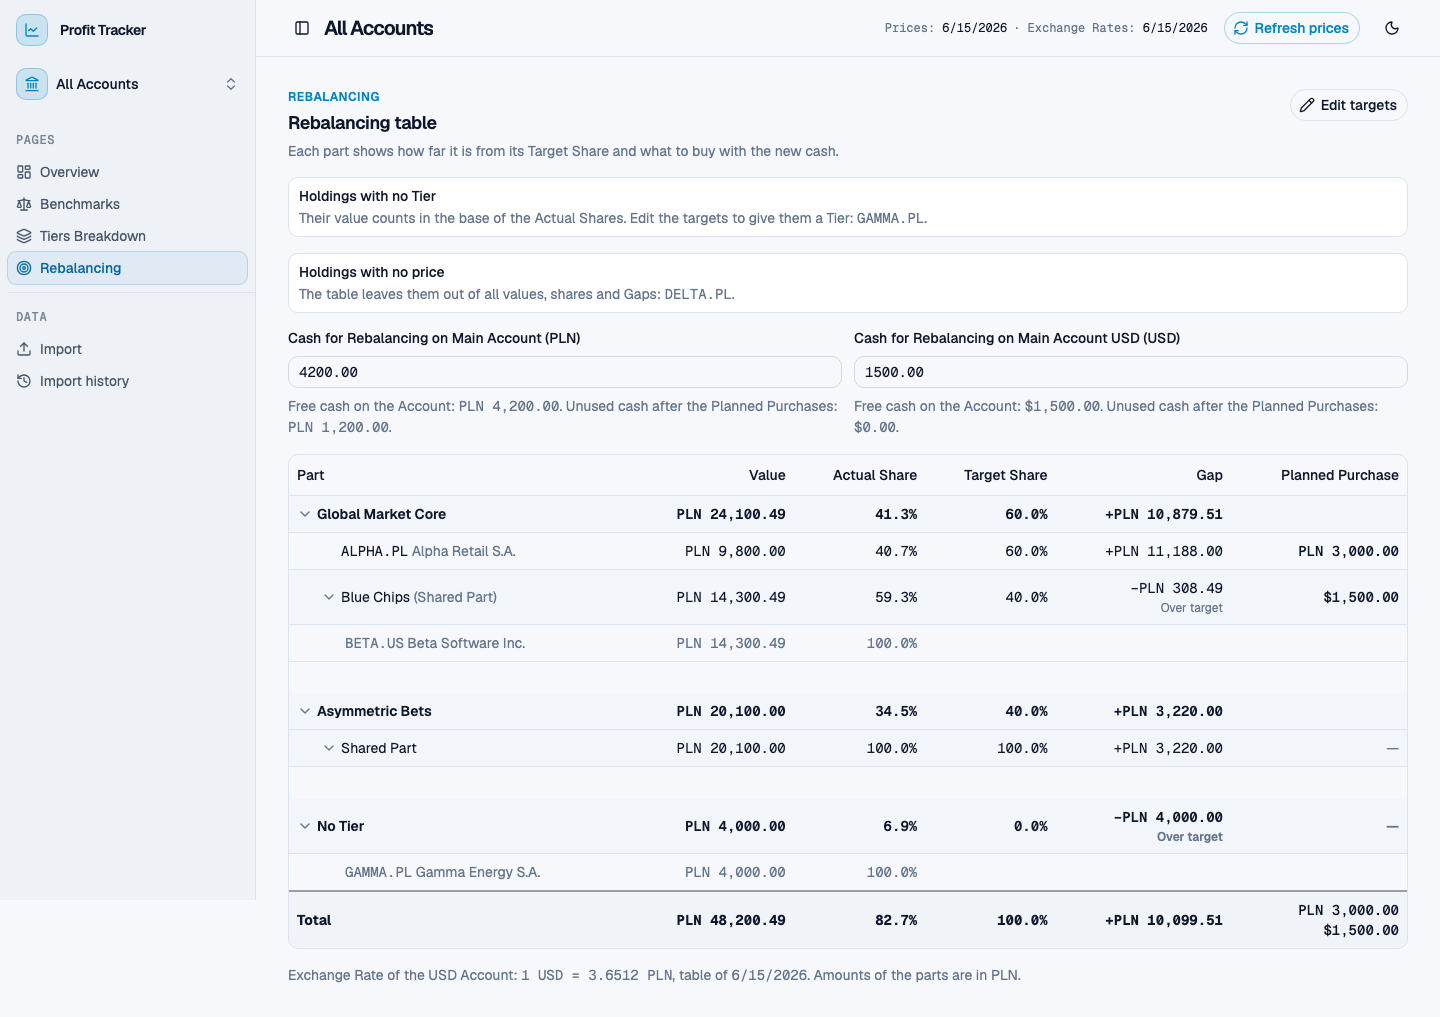
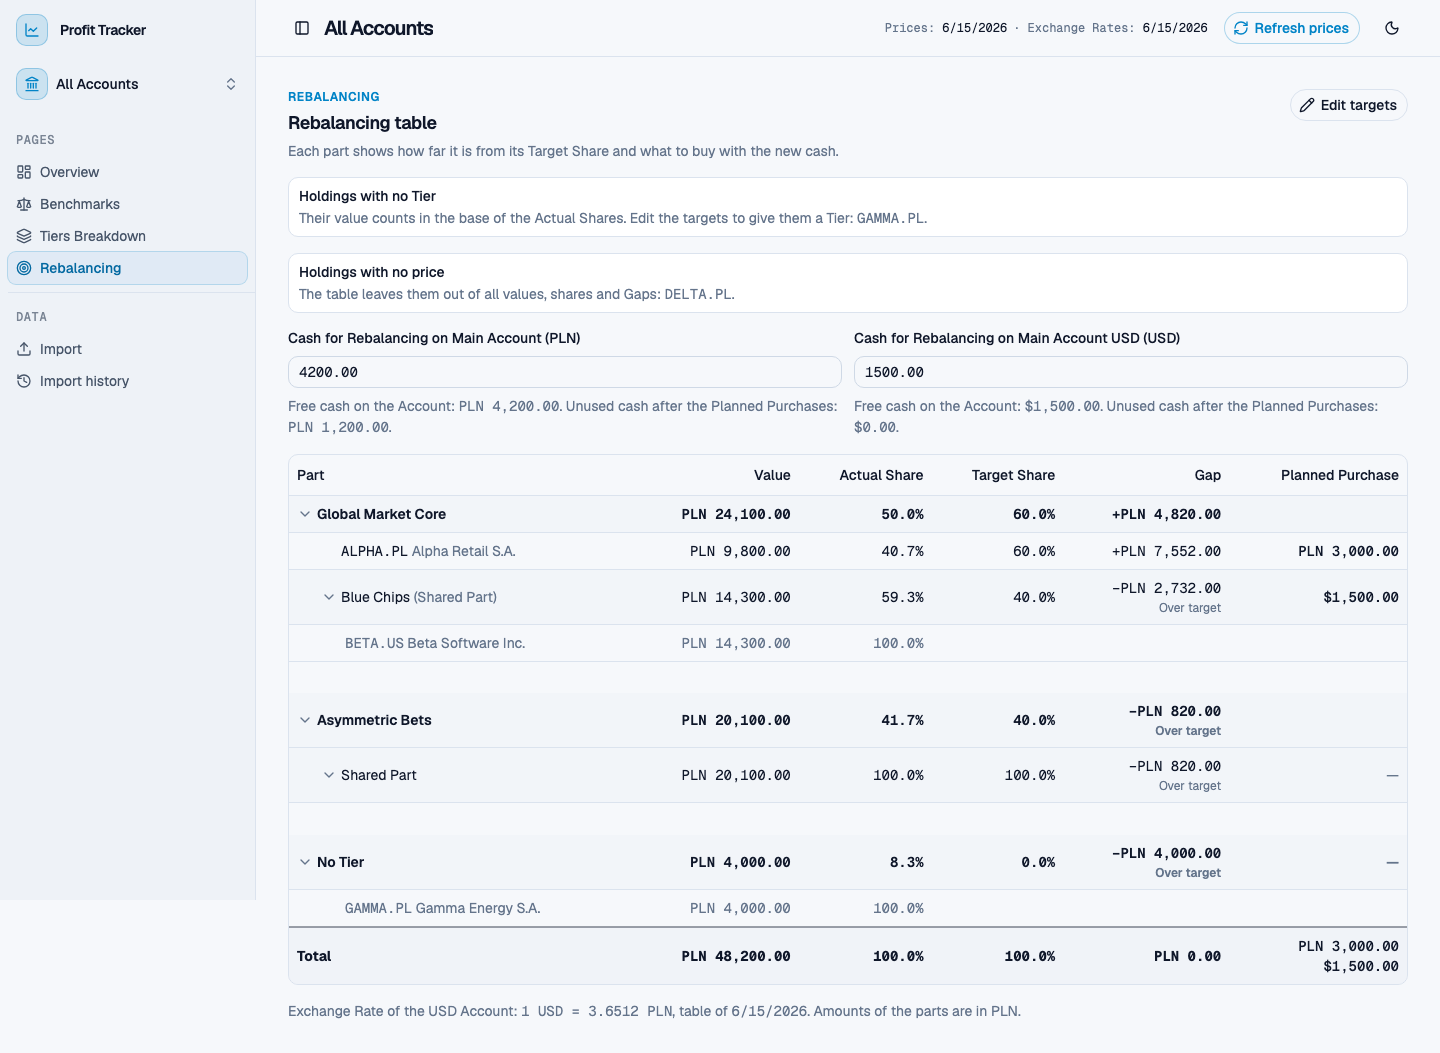
Make the Rebalancing fixture consistent
Refs #105

diff --git a/frontend/screenshots/fixtures.ts b/frontend/screenshots/fixtures.ts
@@ -1445,16 +1445,16 @@ const populatedRebalancing: Rebalancing = {
   ],
   missingAccounts: [],
   value: "48200.00",
-  base: "58300.00",
+  base: "48200.00",
   tiers: [
     {
       order: 1,
       name: "Global Market Core",
-      value: "24100.4872",
-      actualShare: "41.3366",
+      value: "24100.00",
+      actualShare: "50",
       targetShare: "60",
-      targetValue: "34980.00",
-      gap: "10879.51",
+      targetValue: "28920.00",
+      gap: "4820.00",
       plannedPurchases: [
         { accountId: 1, currency: "PLN", amount: "3000.00" },
         { accountId: 5, currency: "USD", amount: "1500.00" },
@@ -1465,27 +1465,27 @@ const populatedRebalancing: Rebalancing = {
           name: "Alpha Retail S.A.",
           noValue: false,
           value: "9800.00",
-          actualShare: "40.6624",
+          actualShare: "40.6639",
           targetShare: "60",
-          targetValue: "20988.00",
-          gap: "11188.00",
+          targetValue: "17352.00",
+          gap: "7552.00",
           plannedPurchase: { accountId: 1, currency: "PLN", amount: "3000.00" },
         },
       ],
       sharedPart: {
         name: "Blue Chips",
-        value: "14300.4872",
-        actualShare: "59.3376",
+        value: "14300.00",
+        actualShare: "59.3361",
         targetShare: "40",
-        targetValue: "13992.00",
-        gap: "-308.49",
+        targetValue: "11568.00",
+        gap: "-2732.00",
         plannedPurchase: { accountId: 5, currency: "USD", amount: "1500.00" },
         instruments: [
           {
             ticker: "BETA.US",
             name: "Beta Software Inc.",
             noValue: false,
-            value: "14300.49",
+            value: "14300.00",
             share: "100",
           },
         ],
@@ -1495,10 +1495,10 @@ const populatedRebalancing: Rebalancing = {
       order: 2,
       name: "Asymmetric Bets",
       value: "20100.00",
-      actualShare: "34.4768",
+      actualShare: "41.7012",
       targetShare: "40",
-      targetValue: "23320.00",
-      gap: "3220.00",
+      targetValue: "19280.00",
+      gap: "-820.00",
       plannedPurchases: [{ accountId: 5, currency: "USD", amount: "0.00" }],
       instrumentTargets: [],
       sharedPart: {
@@ -1506,8 +1506,8 @@ const populatedRebalancing: Rebalancing = {
         value: "20100.00",
         actualShare: "100",
         targetShare: "100",
-        targetValue: "23320.00",
-        gap: "3220.00",
+        targetValue: "19280.00",
+        gap: "-820.00",
         plannedPurchase: { accountId: 5, currency: "USD", amount: "0.00" },
         instruments: [],
       },
@@ -1515,7 +1515,7 @@ const populatedRebalancing: Rebalancing = {
   ],
   noTier: {
     value: "4000.00",
-    actualShare: "6.8611",
+    actualShare: "8.2988",
     targetShare: "0",
     targetValue: "0.00",
     gap: "-4000.00",
